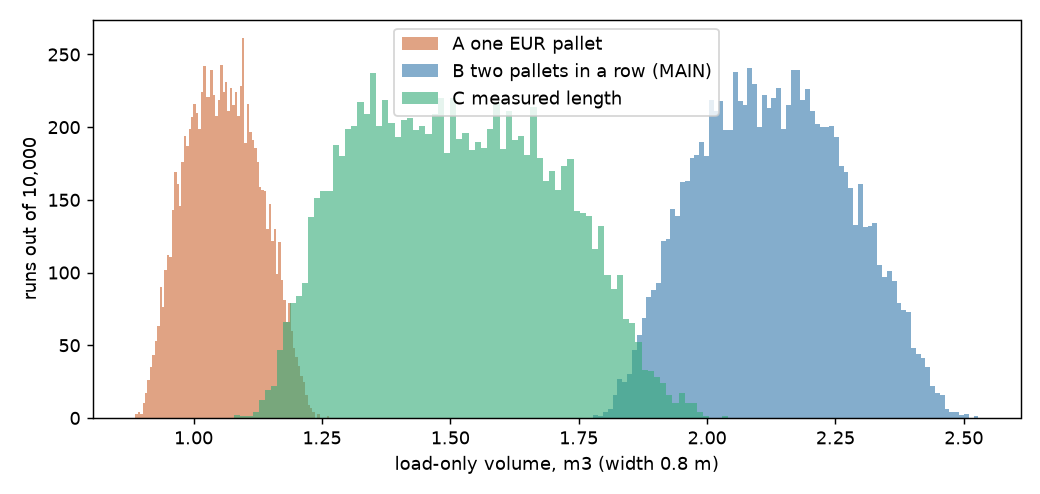
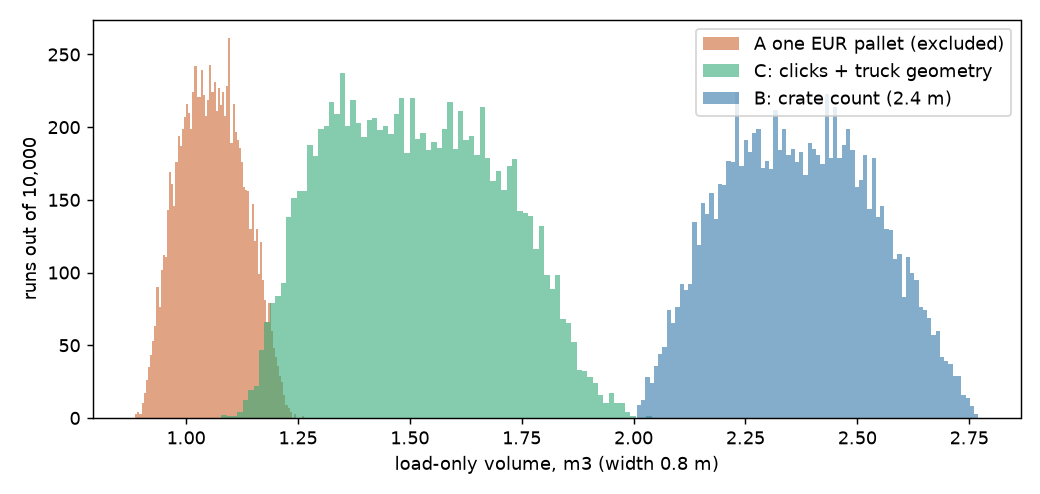
Crate identification attempt, redo length check with catalogue crate sizes, B/C as side-by-side scenarios

diff --git a/src/uncertainty.py b/src/uncertainty.py
@@ -1,4 +1,4 @@
-"""Step 4: Monte Carlo (10,000 runs) for the load volume. Main case = B (two EUR pallets in a row), A and C are alternatives.
+"""Step 4: Monte Carlo (10,000 runs) for the load volume. Two scenarios side by side, neither is "main": C (length from clicks + truck geometry) and B (length from the crate count, height from crate heights). A (one EUR pallet) is excluded by the clicks.
 Plain idea: every input that we are not sure about gets a range; each run draws one value for each, computes the volume, and we
 look at the spread of the 10,000 results. All ranges are ASSUMPTIONS written in README.md. Nothing here decides which case is true.
 Clicks vary independently per frame; the other inputs (scale bias, lens, fill, tolerances) are shared by the three frames, because
@@ -59,17 +59,29 @@ def simulate(case, vary, width=0.8, scale="truck", seed=1):
 def q(x): return dict(median=float(np.median(x)), p10=float(np.percentile(x, 10)), p90=float(np.percentile(x, 90)), p2_5=float(np.percentile(x, 2.5)), p97_5=float(np.percentile(x, 97.5)))
 fmt = lambda s: f"{s['median']:.2f}  (80%: {s['p10']:.2f}-{s['p90']:.2f} | 95%: {s['p2_5']:.2f}-{s['p97_5']:.2f})"
 
+def scenario_B_from_crates(width=0.8, seed=2):
+    """Scenario B, self-consistent version: length from the CRATE COUNT (8 crates x 0.300 m = two EUR pallets), height from
+    4 layers x crate height, where the crate height is NOT measured in the image. 0.29-0.36 m is the range of 12-bottle and 20 x 0.5 l crates
+    in the Delbrouck catalogue (crate type of the video is NOT verified). The image only supplies the count (4 layers, 8 crates)."""
+    rng = np.random.default_rng(seed)
+    L = 8 * 0.300 + rng.normal(0, 0.003, N); w = width + rng.normal(0, RANGES["tol_m"], N)
+    H = 4 * rng.uniform(0.29, 0.36, N); fill = rng.uniform(*RANGES["fill"], N)
+    V = L * w * H * fill; return {"V": V, "Vp": V + L * w * PALLET_V, "H": H, "L": L}
+
 if __name__ == "__main__":
     ALL = set(INPUTS); res = {}
-    names = {"B": "B two pallets in a row (MAIN)", "A": "A one EUR pallet", "C": "C measured length"}
+    names = {"B": "B-with-image-scale (2.4 m long but 4 layers of 290 mm: NOT self-consistent, kept only for comparison)", "A": "A one EUR pallet (EXCLUDED by the clicks)", "C": "C length from clicks + truck geometry"}
     print("Median and ranges in m3, pooled over the 3 frames, width 0.8 m, truck scale\n")
     for c in "BAC":
         r = simulate(c, ALL); res[c] = {"load_only": q(r["V"].mean(0)), "load_plus_pallets": q(r["Vp"].mean(0)), "height_m": q(r["H"].mean(0)), "length_m": q(r["L"].mean(0)),
                                         "per_frame_median_load_only": [float(np.median(v)) for v in r["V"]]}
         print(f"{names[c]}\n   load only        {fmt(res[c]['load_only'])}\n   load + pallets   {fmt(res[c]['load_plus_pallets'])}")
         print(f"   height {res[c]['height_m']['median']:.2f} m | length {res[c]['length_m']['median']:.2f} m | per-frame medians (#1086, #1092, #1098): {[round(x, 2) for x in res[c]['per_frame_median_load_only']]}")
+    rb = scenario_B_from_crates(); res["B_crates"] = {"load_only": q(rb["V"]), "load_plus_pallets": q(rb["Vp"]), "height_m": q(rb["H"]), "length_m": q(rb["L"])}
+    print(f"SCENARIO B from crate count (L 2.4 m, H = 4 x 0.29-0.36 m, no image scale)\n   load only        {fmt(res['B_crates']['load_only'])}\n   load + pallets   {fmt(res['B_crates']['load_plus_pallets'])}")
     print("\nScenarios outside the main range (NOT mixed into it):")
-    scen = {}
+    scen = {"B_crates": {"width_1.2": q(scenario_B_from_crates(1.2)["V"])}}
+    print(f"  SCENARIO B (crate count): width 1.2 m -> {fmt(scen['B_crates']['width_1.2'])}")
     for c in "BAC":
         scen[c] = {"width_1.2": q(simulate(c, ALL, width=1.2)["V"].mean(0)), "pallet_height_scale": q(simulate(c, ALL, scale="pallet")["V"].mean(0))}
         print(f"  {c}: width 1.2 m -> {fmt(scen[c]['width_1.2'])} | height from pallet-height scale -> {fmt(scen[c]['pallet_height_scale'])}")
@@ -89,9 +101,10 @@ if __name__ == "__main__":
         s = sens[c]; ks = sorted(s, key=s.get); a.barh(ks, [s[k] for k in ks], color=["#444" if k == "all together" else "#3a7" for k in ks]); a.set_title(f"Case {c}: spread caused by one input alone"); a.set_xlabel("half of 80% range, % of median volume")
     plt.tight_layout(); plt.savefig("outputs/uncertainty_bars.png", dpi=130); plt.close()
     fig, a = plt.subplots(figsize=(8, 3.8))
-    for c, col in zip("ABC", ("#c63", "#37a", "#3a7")): a.hist(simulate(c, ALL)["V"].mean(0), bins=80, alpha=0.6, color=col, label=names[c])
+    for lab, v, col in (("A one EUR pallet (excluded)", simulate("A", ALL)["V"].mean(0), "#c63"), ("C: clicks + truck geometry", simulate("C", ALL)["V"].mean(0), "#3a7"), ("B: crate count (2.4 m)", scenario_B_from_crates()["V"], "#37a")):
+        a.hist(v, bins=80, alpha=0.6, color=col, label=lab)
     a.set_xlabel("load-only volume, m3 (width 0.8 m)"); a.set_ylabel("runs out of 10,000"); a.legend(); plt.tight_layout(); plt.savefig("outputs/volume_hist.png", dpi=130); plt.close()
-    fig, a = plt.subplots(figsize=(6, 3.4)); pf = simulate("B", ALL)["V"]
+    fig, a = plt.subplots(figsize=(6, 3.4)); pf = simulate("C", ALL)["V"]
     for i, (k, col) in enumerate(zip(("#1086", "#1092", "#1098"), ("#c63", "#37a", "#3a7"))): a.hist(pf[i], bins=60, alpha=0.5, color=col, label=k)
-    a.set_xlabel("case B load-only volume, m3"); a.legend(); plt.tight_layout(); plt.savefig("outputs/frames_spread.png", dpi=130); plt.close()
+    a.set_xlabel("case C load-only volume, m3, per frame"); a.legend(); plt.tight_layout(); plt.savefig("outputs/frames_spread.png", dpi=130); plt.close()
     print("\nsaved outputs/uncertainty.json, uncertainty_bars.png, volume_hist.png, frames_spread.png")

diff --git a/src/crates.py b/src/crates.py
@@ -39,3 +39,27 @@ for k, P in load_points().items():
     for side, nm in ((CRATE_W, "300"), (CRATE_L, "400")):
         L = N_ALONG[0] * side; s_req = 1000 * L / np.hypot(ll, (rho - 1) * 1100 * hm / hl)
         print(f"      {nm} mm side x {N_ALONG[0]} crates ({L:.1f} m): needs {hm*s_req/1000:.2f} m tall = {hm*s_req/1000/0.295:.1f} layers (f=1100)")
+
+# =====================================================================================================
+print("\n\n== REDO with the crate sizes found in a manufacturer catalogue (Delbrouck, https://www.delbrouck.de/en/getraenkekaesten/, read 2026-11-12).")
+print("   The crate TYPE IN THE VIDEO IS STILL NOT VERIFIED (stickers unreadable). These are real crates of the right family, not a match.")
+# (side that would run along the face in m, name, verified heights in m of crates with that footprint)
+FOOT = [(0.266, "400 x 266 (12 x 0.75 l / 12 x 1 l; 9 per EUR layer)", (0.310, 0.333)),
+        (0.300, "400 x 300 (20 x 0.5 l, 12 x 0.75 l, 12 x 1 l)",       (0.290, 0.360)),
+        (0.375, "375 x 266 (12 x 0.7 l)",                              (0.305, 0.305)),
+        (0.400, "400 side along the face (any 400 x 266/300 crate)",    (0.290, 0.360))]
+print("   Idea: n crates of side s give a face length L = n*s. That length fixes the scale (with perspective), the scale fixes the height,")
+print("   height / 4 layers = implied crate height. A candidate fits if the implied height lies inside the verified heights of that footprint (+-5 %).\n")
+for k, P in load_points().items():
+    hl, hr = d(P["load_BL"], P["load_TL"]), d(P["load_BR"], P["load_TR"]); hm = (hl + hr) / 2; rho = hl / hr
+    ll = (d(P["load_BL"], P["load_BR"]) + d(P["load_TL"], P["load_TR"])) / 2
+    ratio = lambda f: hm / np.hypot(ll, (rho - 1) * f * hm / hl)            # metres of height per metre of face length
+    print(f"  #{k}:")
+    for s, name, (h0, h1) in FOOT:
+        row = []
+        for n in N_ALONG:
+            L = n * s; himp = [L * ratio(f) / LAYERS for f in (800, 1400)]; lo, hi = min(himp), max(himp)
+            ok = hi >= h0 * 0.95 and lo <= h1 * 1.05
+            row.append(f"{n} crates = {L:.2f} m -> crate {lo*1000:.0f}-{hi*1000:.0f} mm {'FITS' if ok else 'no'}")
+        print(f"     {name}: " + " | ".join(row))
+    print(f"     for comparison, crate height from the truck scale = {hm*2888/abs(P['ref_front_wheel_ground'][1]-P['ref_mast_top'][1])/1000/LAYERS*1000:.0f} mm, from the pallet-height scale = {hm*PAL_H/np.mean([d(P['pallet_BL'],P['pallet_TL']),d(P['pallet_BR'],P['pallet_TR'])])/LAYERS:.0f} mm")
